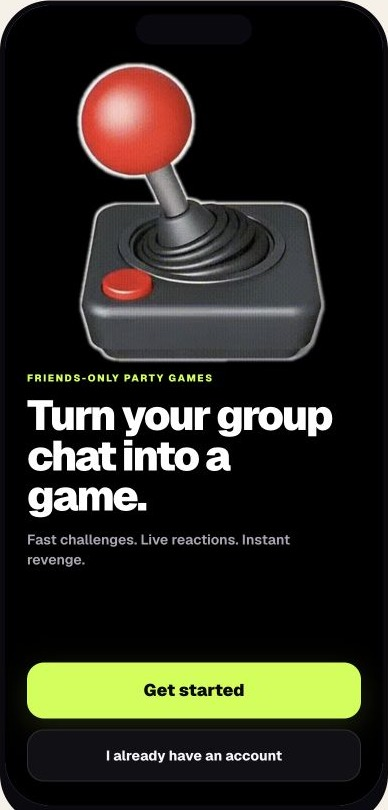
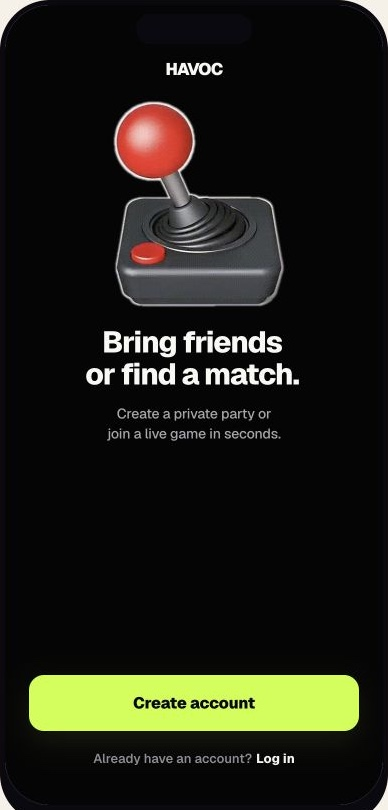
polish(onboarding): rebalance welcome screen

Changed region(s): [[0.0619, 0.0617, 0.866, 0.7099], [0.0619, 0.8025, 0.9278, 0.9568], [0.9588, 0.9877, 0.9897, 1.0]]

diff --git a/app/globals.css b/app/globals.css
@@ -434,27 +434,39 @@
   display: flex;
   flex-direction: column;
   overflow: hidden;
-  padding: 52px 22px max(24px, env(safe-area-inset-bottom));
-  background: #000;
+  padding: max(52px, env(safe-area-inset-top)) 24px max(22px, env(safe-area-inset-bottom));
+  background: #050505;
   color: #fff;
+}
+
+.welcome-brand {
+  align-self: center;
+  min-height: 24px;
+  opacity: 0;
+  color: #f7f7f4;
+  font-size: 17px;
+  font-weight: 950;
+  line-height: 24px;
+  letter-spacing: -.055em;
+  animation: welcome-content-in .44s .08s cubic-bezier(.16,1,.3,1) both;
 }
 
 .welcome-joystick-stage {
   position: relative;
   display: grid;
-  flex: 0 0 315px;
+  flex: 0 0 244px;
   place-items: center;
-  margin: -4px -10px 2px;
+  margin: 0 -10px;
   opacity: 0;
-  translate: 0 22px;
-  scale: .92;
-  animation: welcome-joystick-in .68s .04s cubic-bezier(.16,1,.3,1) both;
+  translate: 0 18px;
+  scale: .96;
+  animation: welcome-joystick-in .64s .1s cubic-bezier(.16,1,.3,1) both;
 }
 
 .welcome-joystick {
   position: absolute;
   display: block;
-  width: min(78vw, 268px);
+  width: min(51vw, 184px);
   height: auto;
   object-fit: contain;
 }
@@ -464,48 +476,43 @@
 }
 
 .welcome-copy {
+  margin: 1px auto 0;
   opacity: 0;
+  text-align: center;
   translate: 0 14px;
-  animation: welcome-content-in .5s .26s cubic-bezier(.16,1,.3,1) both;
-}
-
-.welcome-eyebrow {
-  display: block;
-  margin-bottom: 10px;
-  color: var(--lime);
-  font-size: 10px;
-  font-weight: 900;
-  letter-spacing: .15em;
-  text-transform: uppercase;
+  animation: welcome-content-in .5s .24s cubic-bezier(.16,1,.3,1) both;
 }
 
 .welcome-copy h2 {
-  max-width: 320px;
+  max-width: 276px;
   margin: 0;
-  color: #fff;
-  font-size: clamp(37px, 10.5vw, 42px);
-  font-weight: 900;
-  line-height: .96;
-  letter-spacing: -.052em;
+  color: #f8f8f5;
+  font-size: clamp(27px, 7.6vw, 30px);
+  font-weight: 790;
+  line-height: 1.07;
+  letter-spacing: -.036em;
+  text-wrap: balance;
 }
 
 .welcome-copy p {
-  max-width: 300px;
-  margin: 13px 0 0;
-  color: #aaa4b1;
+  max-width: 280px;
+  margin: 14px auto 0;
+  color: #a6a5aa;
   font-size: 14px;
-  font-weight: 650;
-  line-height: 1.45;
+  font-weight: 500;
+  line-height: 1.42;
+  letter-spacing: -.012em;
+  text-wrap: balance;
 }
 
 .welcome-actions {
   display: grid;
-  gap: 11px;
+  gap: 4px;
   margin-top: auto;
-  padding-top: 20px;
+  padding-top: 26px;
   opacity: 0;
   translate: 0 12px;
-  animation: welcome-content-in .46s .4s cubic-bezier(.16,1,.3,1) both;
+  animation: welcome-content-in .46s .38s cubic-bezier(.16,1,.3,1) both;
 }
 
 .welcome-primary,
@@ -515,27 +522,34 @@
   min-height: 56px;
   align-items: center;
   justify-content: center;
-  border-radius: 17px;
+  border-radius: 15px;
   cursor: pointer;
   transition: opacity 160ms ease, background-color 160ms ease, scale 160ms ease;
 }
 
 .welcome-primary {
-  border: 2px solid var(--lime);
+  border: 1px solid var(--lime);
   background: var(--lime);
-  box-shadow: 0 8px 28px #c7ff3224;
+  box-shadow: 0 10px 30px #c7ff3217;
   color: #090a07;
-  font-size: 17px;
-  font-weight: 900;
+  font-size: 16px;
+  font-weight: 850;
+  letter-spacing: -.012em;
 }
 
 .welcome-secondary {
-  min-height: 52px;
-  border: 1px solid #302d34;
-  background: #111014;
-  color: #f7f5f9;
-  font-size: 14px;
-  font-weight: 760;
+  gap: 4px;
+  min-height: 48px;
+  border: 0;
+  background: transparent;
+  color: #8f8e94;
+  font-size: 13px;
+  font-weight: 560;
+}
+
+.welcome-secondary strong {
+  color: #f2f2ef;
+  font-weight: 780;
 }
 
 .welcome-primary:hover {
@@ -543,7 +557,7 @@
 }
 
 .welcome-secondary:hover {
-  background: #1a181e;
+  color: #b7b6bb;
 }
 
 .welcome-primary:active,
@@ -575,23 +589,24 @@
 
 @media (max-width: 620px) {
   .welcome-screen {
-    padding-top: 49px;
+    padding-top: max(50px, env(safe-area-inset-top));
   }
 
   .welcome-joystick-stage {
-    flex-basis: 292px;
+    flex-basis: 228px;
   }
 
   .welcome-joystick {
-    width: min(76vw, 252px);
+    width: min(48vw, 168px);
   }
 
   .welcome-copy h2 {
-    font-size: clamp(35px, 10vw, 39px);
+    font-size: clamp(27px, 7.6vw, 29px);
   }
 }
 
 @media (prefers-reduced-motion: reduce) {
+  .welcome-brand,
   .welcome-joystick-stage,
   .welcome-copy,
   .welcome-actions {

diff --git a/app/page.tsx b/app/page.tsx
@@ -117,6 +117,7 @@ function LoadingScreen({ next }: { next: () => void }) {
 
 function WelcomeScreen({ next, onLogin }: { next: () => void; onLogin: () => void }) {
   return <div className="screen welcome-screen">
+    <div className="welcome-brand" aria-label="Havoc">HAVOC</div>
     <div className="welcome-joystick-stage" aria-hidden="true">
       <img
         className="welcome-joystick welcome-joystick-motion"
@@ -134,13 +135,14 @@ function WelcomeScreen({ next, onLogin }: { next: () => void; onLogin: () => voi
       />
     </div>
     <div className="welcome-copy">
-      <span className="welcome-eyebrow">Friends-only party games</span>
-      <h2>Turn your group chat into a game.</h2>
-      <p>Fast challenges. Live reactions. Instant revenge.</p>
+      <h2>Bring friends or find a match.</h2>
+      <p>Create a private party or join a live game in seconds.</p>
     </div>
     <div className="welcome-actions">
-      <button className="welcome-primary" onClick={next}>Get started</button>
-      <button className="welcome-secondary" onClick={onLogin}>I already have an account</button>
+      <button className="welcome-primary" onClick={next}>Create account</button>
+      <button className="welcome-secondary" onClick={onLogin}>
+        Already have an account? <strong>Log in</strong>
+      </button>
     </div>
   </div>;
 }
